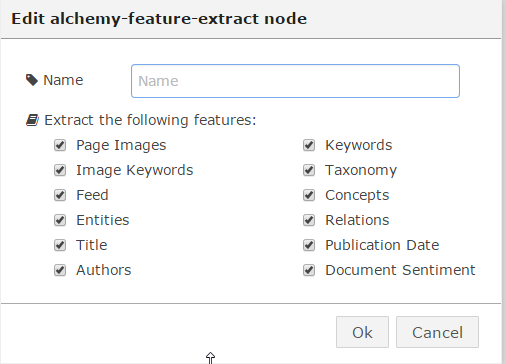
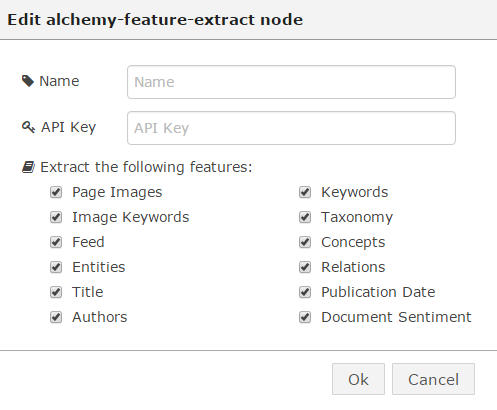
updates

diff --git a/watson_services_labs/personality_insights/lab_personality_insights.md b/watson_services_labs/personality_insights/lab_personality_insights.md
@@ -1,6 +1,6 @@
 ##Personality Insights
 
-The IBM Watson Personality Insights service uses linguistic analytics to infer cognitive and social characteristics, including Big Five, Values, and Needs, from communications that the user makes available, such as email, text messages, tweets, forum posts, and more, go to https://www.ibm.com/smarterplanet/us/en/ibmwatson/developercloud/personality-insights.html for a full description and demo
+The IBM Watson Personality Insights service uses linguistic analytics to infer cognitive and social characteristics, including Big Five, Values, and Needs, from communications that the user makes available, such as email, text messages, tweets, forum posts, and more, go to [personal-insights](https://www.ibm.com/smarterplanet/us/en/ibmwatson/developercloud/personality-insights.html) for a full description and demo
 
 The objective is to send the Personality Insights node the same data as for the demo (https://watson-pi-demo.mybluemix.net/) and to show the JSON object and its values match those of the demo
 
@@ -22,7 +22,7 @@ Join them as shown below
 
 Double-click the debug node and replace ‘payload’ to ‘insights’. Also change “to” to “debug tab and console”
 
-Double-click the inject node and change Payload to string.  Go to https://github.com/NodeREDWatson/Watson-Node-Red-Samples/blob/master/files/Personality%20Insights/Personal%20Insights%20input%20text.txt and open the file and pasts the text to the blank field below the Payload field (this is the same text that is used in the demo).
+Double-click the inject node and change Payload to string.  Go to [sample file](Personal%20Insights%20input%20text.txt) and open the file and pasts the text to the blank field below the Payload field (this is the same text that is used in the demo).
 
 Open a command line on your laptop and login to Bluemix with your username/password.  Navigate to the organisation and space to where your application is located.
 
@@ -45,3 +45,6 @@ Go back to the command prompt and see that the full object has been shown.
 ![ScreenShot](images/pi_cmd_prompt.png)
 
 Compare the items in the JSON object to those of the demo for Personality Insights - you can see that the values shown are the same (or very similar).
+
+A completed flow file card be found [here](personal_insights_flows.json)
+

diff --git a/watson_services_labs/alchemy_api_feature_extraction/lab_alchemy_api_feature_extraction.md b/watson_services_labs/alchemy_api_feature_extraction/lab_alchemy_api_feature_extraction.md
@@ -61,7 +61,7 @@ Now end the line with another double quote and semi-colon :
 
 ![ScreenShot](images/fe_function_text_end_semicolon.png)
 
-Double-click the Alchemy API Feature Extract node and tick all options 
+Double-click the Alchemy API Feature Extract node, when used for the first time it will ask for an API key, enter your key and also tick all the options
 
 ![ScreenShot](images/fe_node_tick_all.png)
 
